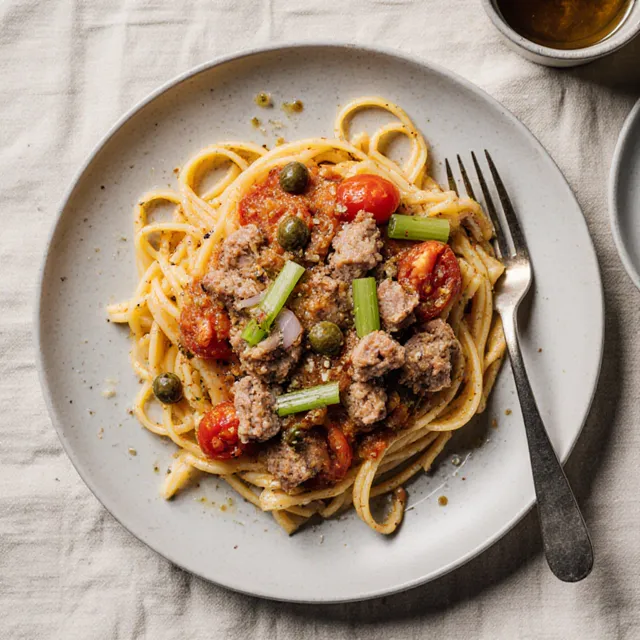
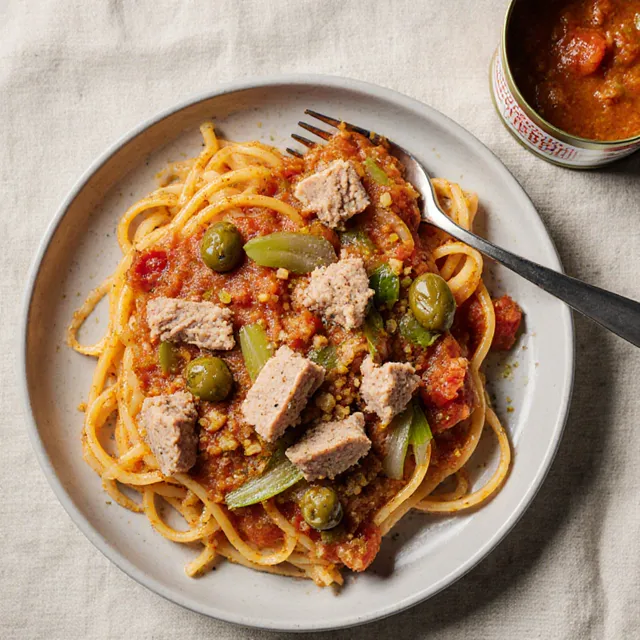
Receptbilder: sex AI-bilder omgjorda efter kvalitetskontroll (#260)
* Design: handoff + mockuper för nya designen (docs)

* Ny design steg 0–1: DM Sans överallt, låg desktop-header, sök i receptvyn (render-only)

- Bricolage Grotesque borta; --font-display = DM Sans (400–700 + kursiv 500)
- Header: en låg rad på sidans yta (logotyp · nav · spacer), dold på mobil
- Sökfältet flyttat från headern till receptvyn (#search/#searchClear oförändrade id:n)
- Body-offset via --header-h + --top-safe i CSS (scroll.js sätter bara variabeln)
- Sidrubriker 40px/600 (28px mobil) + underrad .content-heading-sub
- tests/e2e/preview-server.mjs: lokal förhandsvisning mot stubbad Supabase
- styles v208 / app v175 / SW v128

* Ny design steg 2–3: receptbilder som webp-kopior i repot + källänk (migration 014)

- images/recipes/r<id>.webp (640×640) + manifest js/recipe-images.js; recipeImage() läser manifestet, de sex AI-bilderna kvar som reserv
- scripts/recipe-images/fetch-images.mjs: sitemap → slug (exakt/lös/fuzzy) → og:image → sharp → webp; skriver manifest + återfyllnad i 014
- db/migrations/014_recipe_source_url.sql (idempotent, väntar körning)
- data-mapper: sourceUrl läses alltid, source_url skrivs bara med värde (spara fungerar före migrationen); tester utökade
- Receptdetaljen visar Källa (länk när source_url finns, annars noteringens Källa-rad)
- URL-import bär sourceUrl → editorn sparar den när kolumnen finns (feature-detektion i app.js)
- sharp som devDependency (bara dev-skriptet)
[…]

diff --git a/docs/status.md b/docs/status.md
@@ -100,6 +100,7 @@ Inga öppna obeslutade därutöver. Alla bugghunt-fynd (Session 111) är åtgär
 **Lägre/latenta (medvetet lämnade, dokumenterade):** DNS-rebinding TOCTOU + IPv6-luckor (`::ffff:`-mappade v4, NAT64, hela `fe80::/10`) i SSRF-guarden (`import-recipe.js` — redirect-hålet fixat, resten kvar); Willys-endpoints: `dispatch-to-willys` auth-gatad S157, `willys-offers`-endpointen borttagen S157; `discard-plan` raderar recept-historik ovillkorligt; `nextId` klient-kollision (`recipe-editor.js:79`); stale titel på "Välj" efter namnbyte utan full re-render.
 
 ## Väntar på live-verifiering (kod klar, ej körd skarpt)
+- **NYTT (Session 158e): sex omgjorda AI-bilder** — Tonfiskpasta, Persisk makaroni, Örtig tortellinisoppa, Brysselkålbonara, Majsplättar, Snabbrimmad torsk: öppna dem i Recept på mobilen och kolla att den nya bilden visas (webbläsarens egen cache kan hålla kvar den gamla någon timme — hårduppdatera).
 - **NYTT (Session 158d): AI-bilderna (app v176/SW v129).** Hårduppdatera. Recept → öppna t.ex. "Pork ramen", "Amandas laxbiffar", "Kålmaja på nolltid": bilden stämmer med rätten och bildtexten "AI-genererad bild · serveringsförslag" står under; öppna "Belugabouillabaisse" (riktigt foto) → ingen bildtext. Matsedel och Idag visar miniatyrerna. Något recept med uppenbart fel bild → säg vilket, så skrivs prompten om i `prompts.json` och bilden genereras om med `--only=<id> --force`.
 - **NYTT (Session 158): Ny design (styles v208/app v175/SW v128).** Hårduppdatera (stäng och öppna appen), båda teman, mobil OCH dator. (1) **Typsnitt:** allt i DM Sans, rubriker tydligt fetare; ingen Bricolage kvar. (2) **Mobil:** ingen grön header; varje flik har sin rubrik; statusfältet krockar inte med innehållet. (3) **Recept:** sök + chips + "Gruppera" högst upp; fotogrid två i bredd (de tio testrecepten 65/66/70/71/78/81/84/86/89/91 har bild, övriga gryt-ikon); tryck → detalj i helskärm med ‹ Recept, bakåtknappen stänger; −/+ skalar mängderna; "Provat" växlar; Planera in → Matsedeln → tryck på dag → receptet hamnar där; väljläget (Byt recept → Välj själv) väljer vid tryck, › visar. (4) **Matsedel:** "Vecka N" + textrad, pilar byter vecka, svep funkar, dagkort med bildruta + handtag, Ikväll med rost-ram, tom dag = "Lägg till middag", Inköp för veckan / Föreslå matsedel längst ner; Bekräfta/Kassera som förut. (5) **Inköp:** fältet överst lägger till, kategorier med källetikett per rad, Har hemma sist, ⋯ öppnar panelen (plockat, Kopiera lista, handla-läge, Dagar i listan, Rensa), Skicka till butik fast i botten när inloggad. (6) **Idag:** kvällens kort med Börja laga / Byt dag (egen dag: Välj ett recept i stället), i morgon-raden, veckans prickar, inköpskortet med snabbinmatning. (7) **Dator (≥900 px):** låg header med nav; Recept = lista vänster + recept höger; Matsedel = 7 kolumner; Inköp = lista + högerpanel; Idag = två kolumner. Hård regel: befintlig veckoplan och egna dagar orörda.
 - **NYTT (Session 157): S155-buggfixarna (styles v207/app v174/SW v127).** Hårduppdatera (stäng och öppna appen). (1) **Skicka till Willys** fungerar inloggad (knappen syns, korgen fylls); "Skicka N" visar bara ej avbockade/har hemma-varor. (2) Inköp → välj butik → Hemköp → Tillbaka → stäng → sidan går att scrolla. (3) Matsedeln: Slumpa på en dag som ligger på listan → kundvagnschipsen står kvar; lägg till/ta bort i dag-sheeten uppdaterar chipet direkt (ingen dubbel blink). (4) Generera → Välj dagar → välj förslagsdagar → Kassera förslag → dialogen säger att varorna tas bort, listan saknar dem efteråt. (5) Recept: byt protein i editorn → färgranden ändras; radera recept → antalet i sidfoten sjunker; filtrera bort allt → "Rensa sökning och filter" fungerar. (6) Import med trasig URL → begripligt fel (inte alltid "kontrollera adressen"). (7) Listor: partnern byter färg/ikon → syns direkt. (8) Matlagningsläget visar "1,5 h" för 90-minutersrätt. (9) **Logga ut** i sidfoten (båda teman, 44 px) → bekräftelse → inloggningsgaten → logga in igen.
@@ -252,4 +253,4 @@ Joakim: "Vi ska implementera en ny design för Receptboken. Underlaget ligger i 
 
 **Byggt i sju steg (en commit per steg på `claude/receptboken-ny-design-1e5f0e`):** 0 DM Sans överallt (Bricolage borta, vikt 600/700 på rubriker) · 1 låg desktop-header (logotyp · nav · spacer), ingen header på mobil, sökfältet i receptvyn, body-offset via `--header-h`/`--top-safe` · 2–3 bilder + källänk (skript `scripts/recipe-images/fetch-images.mjs`: sitemap → slug exakt/lös/fuzzy → og:image → sharp; torrkörning mot junibackupen matchade 186/192) · 4 **receptvyn** master–detail ≥900px / fotogrid två i bredd på mobil, chips (Alla · Vegetariskt · Fisk & skaldjur · Kyckling · Under 30 min · Provade · Ugn), gruppering via select (default vardag/helg, Kök kvar), bara "Provat" visas, detalj med portionsstepper, Börja laga / Inköpslista (när receptet står på en dag) / Planera in (receptet väljs först, dagen trycks i Matsedeln) · 5 **Matsedeln** veckohuvud med textrad + Inköp för veckan / Föreslå matsedel, bildruta per dag, "Ons · ikväll" + accentram, 7 kolumner på desktop (drag & släpp bara i mobilens lista) · 6 **Inköp** inmatning överst, källa per rad (gissad ur täckta recept — `shopping_items` saknar receptreferens), Har hemma sist, desktop-panel / mobil Skicka-rad + ⋯-sheet · 7 **Idag** konkreta handlingar, veckoöversikt text/prickar, inköpsstatus med snabbinmatning, Att göra på desktop. Förhandsgranskat i båda teman på 1280 och 390 px via `tests/e2e/preview-server.mjs` (stubbad Supabase, ny). Hela testsviten grön.
 
-**Kvar / väntar Joakim:** mobilverifiering enligt kön. (Migration 014 KÖRD 2026-10-21 av Joakim: `source_url` + återfyllnad för 112 recept, verifierad från inloggad panel — 112/165 med källa. Bilderna klara, se 158c.) **Uppföljning samma dag (158b) — källsökning för recept utan bild (Joakim: "gå igenom alla recept utan bild … lägg in de som är garanterat rätt"):** `scripts/recipe-images/find-sources.mjs` fuzzy-matchar titlar mot Coop/Köket/Portionen under tian (undertian.com) och verifierar mot ingredienslistan; Coop renderar ingredienserna i klienten, så de 22 Coop-kandidaterna lästes i webbläsarpanelen. **18 säkra källor** (rad-för-rad-överlapp ≥ 0,89, oftast 100 %) ligger i `scripts/recipe-images/sources.json` och har bild + återfyllnad: Coop/Mer Smak 2, 3, 4, 5, 7, 8, 9, 10, 11, 12, 31, 47, 48, 56 · Köket 14, 15, 43, 63. Ids 2/4/7 fick därmed riktig bild i stället för AI-reserven. Ingen säker träff för övriga ~50 (kål-sviten 32–41, Amandas…, 263–271 — webbsökning gav bara närliggande recept, inga Portionen under tian-träffar). Allt bygger på junibackupens id/titlar; återfyllnads-SQL:en kräver titelträff. **158c — dishingouthealth-bilderna hämtade mot livedata:** Joakim loggade in i webbläsarpanelen; `window.RECIPES` (165 recept, 100 med dishingouthealth-källa) dumpades via `POST /dump` på förhandsservern till `scripts/.cache/recipes-live.json` (gitignorerad). Skriptet matchade 99 av 100 dishingouthealth-källor (52 exakt slug, 47 via lös/fuzzy — alla 47 verifierade mot sidans JSON-LD-namn = identiskt; sajten har bytt sluggar), hämtade 89 nya bilder. **Manifestet har 112 bilder.** Omatchad: 183 "Butternut Squash and Poblano Salad with Feta" (finns inte längre i sajtens sitemap). Fem bilder för raderade recept (4, 5, 10, 15, 63) togs bort. **53 recept saknar fortfarande bild:** de 52 utan webbkälla (kål-sviten, Amandas, 16 nya sedan junibackupen 272–288 m.fl.) + 183. Återfyllnads-SQL:en i 014 täcker nu 112 recept (99 dishingouthealth + 13 Coop/Köket). **158d — AI-serveringsförslag för de 53 recepten utan källa (Joakim: "lägg in dem med AI-märkning"):** Gemini-bildmodellerna gav 429 på gratisnivån (nyckeln via `vercel env pull`, Vercel CLI installerat), gratisalternativen kartlagda (Cloudflare Workers AI ≈ 230 bilder/dag, Pollinations med vattenstämpel) — men Joakim har redan **ComfyUI med FLUX.1 Krea dev lokalt** (`C:\Users\joaki\ComfyUI_windows_portable`). `scripts/recipe-images/generate-local.mjs` kör mot ComfyUI-API:t (768 px → 640 webp, ~60 s/bild på RTX 3060); **promptarna är handskrivna per recept i `prompts.json`** efter läsning av ingredienser och steg (första maskinprompten gav fläskbiffar i ramen i stället för fläskfärs). 53/53 genererade, granskade på kontaktark. Appen märker dem "AI-genererad bild · serveringsförslag" via `RECIPE_IMAGE_AI_IDS` i manifestet; proveniens i `ai-generated.json`. **Alla 165 recept har bild** (99 dishingouthealth + 13 Coop/Köket + 53 AI). De sex Session 152-bilderna och fem föräldralösa filer borttagna. app v176 / SW v129. Playwright-harnessen (tests/e2e) är INTE körd (ingen Playwright lokalt) — swap-scenariots kortselektor uppdaterad (.card-header → .rc-main), övriga scenarier bör röktestas vid nästa nattpass. Medvetet inte gjort: lagningsläget (handoff punkt 9), städning av död CSS (.dlx-hero, .card-header, .pill, gamla .today-*), drag & släpp i veckorutnätet.
+**Kvar / väntar Joakim:** mobilverifiering enligt kön. (Migration 014 KÖRD 2026-10-21 av Joakim: `source_url` + återfyllnad för 112 recept, verifierad från inloggad panel — 112/165 med källa. Bilderna klara, se 158c.) **Uppföljning samma dag (158b) — källsökning för recept utan bild (Joakim: "gå igenom alla recept utan bild … lägg in de som är garanterat rätt"):** `scripts/recipe-images/find-sources.mjs` fuzzy-matchar titlar mot Coop/Köket/Portionen under tian (undertian.com) och verifierar mot ingredienslistan; Coop renderar ingredienserna i klienten, så de 22 Coop-kandidaterna lästes i webbläsarpanelen. **18 säkra källor** (rad-för-rad-överlapp ≥ 0,89, oftast 100 %) ligger i `scripts/recipe-images/sources.json` och har bild + återfyllnad: Coop/Mer Smak 2, 3, 4, 5, 7, 8, 9, 10, 11, 12, 31, 47, 48, 56 · Köket 14, 15, 43, 63. Ids 2/4/7 fick därmed riktig bild i stället för AI-reserven. Ingen säker träff för övriga ~50 (kål-sviten 32–41, Amandas…, 263–271 — webbsökning gav bara närliggande recept, inga Portionen under tian-träffar). Allt bygger på junibackupens id/titlar; återfyllnads-SQL:en kräver titelträff. **158c — dishingouthealth-bilderna hämtade mot livedata:** Joakim loggade in i webbläsarpanelen; `window.RECIPES` (165 recept, 100 med dishingouthealth-källa) dumpades via `POST /dump` på förhandsservern till `scripts/.cache/recipes-live.json` (gitignorerad). Skriptet matchade 99 av 100 dishingouthealth-källor (52 exakt slug, 47 via lös/fuzzy — alla 47 verifierade mot sidans JSON-LD-namn = identiskt; sajten har bytt sluggar), hämtade 89 nya bilder. **Manifestet har 112 bilder.** Omatchad: 183 "Butternut Squash and Poblano Salad with Feta" (finns inte längre i sajtens sitemap). Fem bilder för raderade recept (4, 5, 10, 15, 63) togs bort. **53 recept saknar fortfarande bild:** de 52 utan webbkälla (kål-sviten, Amandas, 16 nya sedan junibackupen 272–288 m.fl.) + 183. Återfyllnads-SQL:en i 014 täcker nu 112 recept (99 dishingouthealth + 13 Coop/Köket). **158d — AI-serveringsförslag för de 53 recepten utan källa (Joakim: "lägg in dem med AI-märkning"):** Gemini-bildmodellerna gav 429 på gratisnivån (nyckeln via `vercel env pull`, Vercel CLI installerat), gratisalternativen kartlagda (Cloudflare Workers AI ≈ 230 bilder/dag, Pollinations med vattenstämpel) — men Joakim har redan **ComfyUI med FLUX.1 Krea dev lokalt** (`C:\Users\joaki\ComfyUI_windows_portable`). `scripts/recipe-images/generate-local.mjs` kör mot ComfyUI-API:t (768 px → 640 webp, ~60 s/bild på RTX 3060); **promptarna är handskrivna per recept i `prompts.json`** efter läsning av ingredienser och steg (första maskinprompten gav fläskbiffar i ramen i stället för fläskfärs). 53/53 genererade, granskade på kontaktark. Appen märker dem "AI-genererad bild · serveringsförslag" via `RECIPE_IMAGE_AI_IDS` i manifestet; proveniens i `ai-generated.json`. **Alla 165 recept har bild** (99 dishingouthealth + 13 Coop/Köket + 53 AI). De sex Session 152-bilderna och fem föräldralösa filer borttagna. app v176 / SW v129. **158e — kvalitetskontroll av alla 53 AI-bilder mot recepten (kontaktark):** 47 rätt direkt; sex omgjorda med skärpta promptar + ny seed (Joakims fynd: Brysselkålbonara hade stekt ägg i stället för nedvispade gulor, Majsplättar hade majs ovanpå, Snabbrimmad torsk hade ägghalvor i stället för hackat ägg; Claudes: Tonfiskpasta visade köttfärs, Persisk makaroni såg ut som tårta, Tortellinisoppan hade snäckor). Tonfisken krävde fyra promptvarv (FLUX ritar gärna köttfärs/tonfiskstek av "canned tuna" — lösningen var "al tonno" + öppnad konservburk i bild). Bilderna SW-cachas inte (webp ingår inte i SW-regexen) → ingen versionsbump. Småskavanker medvetet lämnade: #20 risoni ser ut som gnocchi, #46 hela linser, #276 makaroner i stället för risoni, #287 panerad kyckling. Playwright-harnessen (tests/e2e) är INTE körd (ingen Playwright lokalt) — swap-scenariots kortselektor uppdaterad (.card-header → .rc-main), övriga scenarier bör röktestas vid nästa nattpass. Medvetet inte gjort: lagningsläget (handoff punkt 9), städning av död CSS (.dlx-hero, .card-header, .pill, gamla .today-*), drag & släpp i veckorutnätet.
